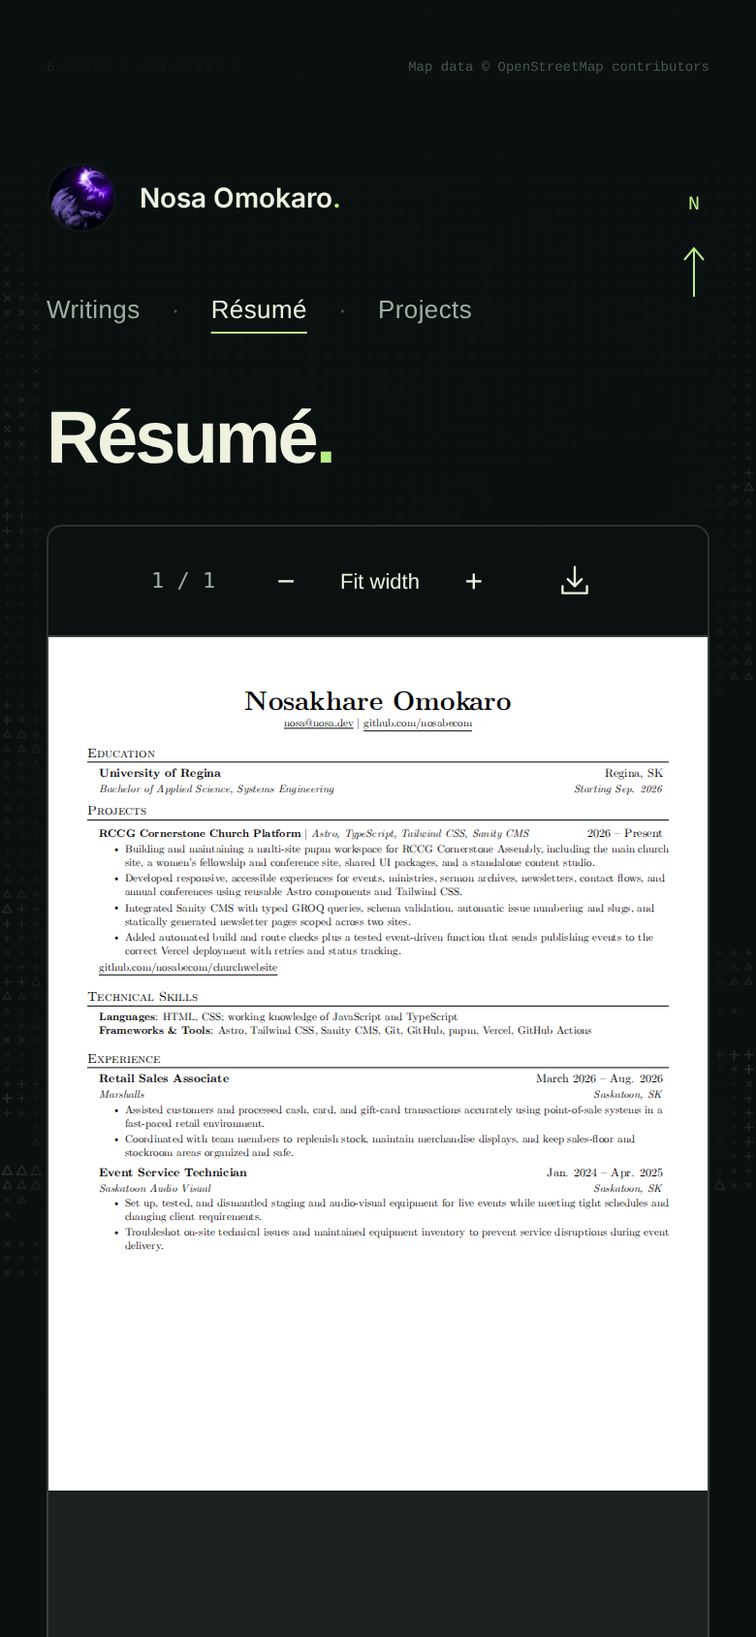
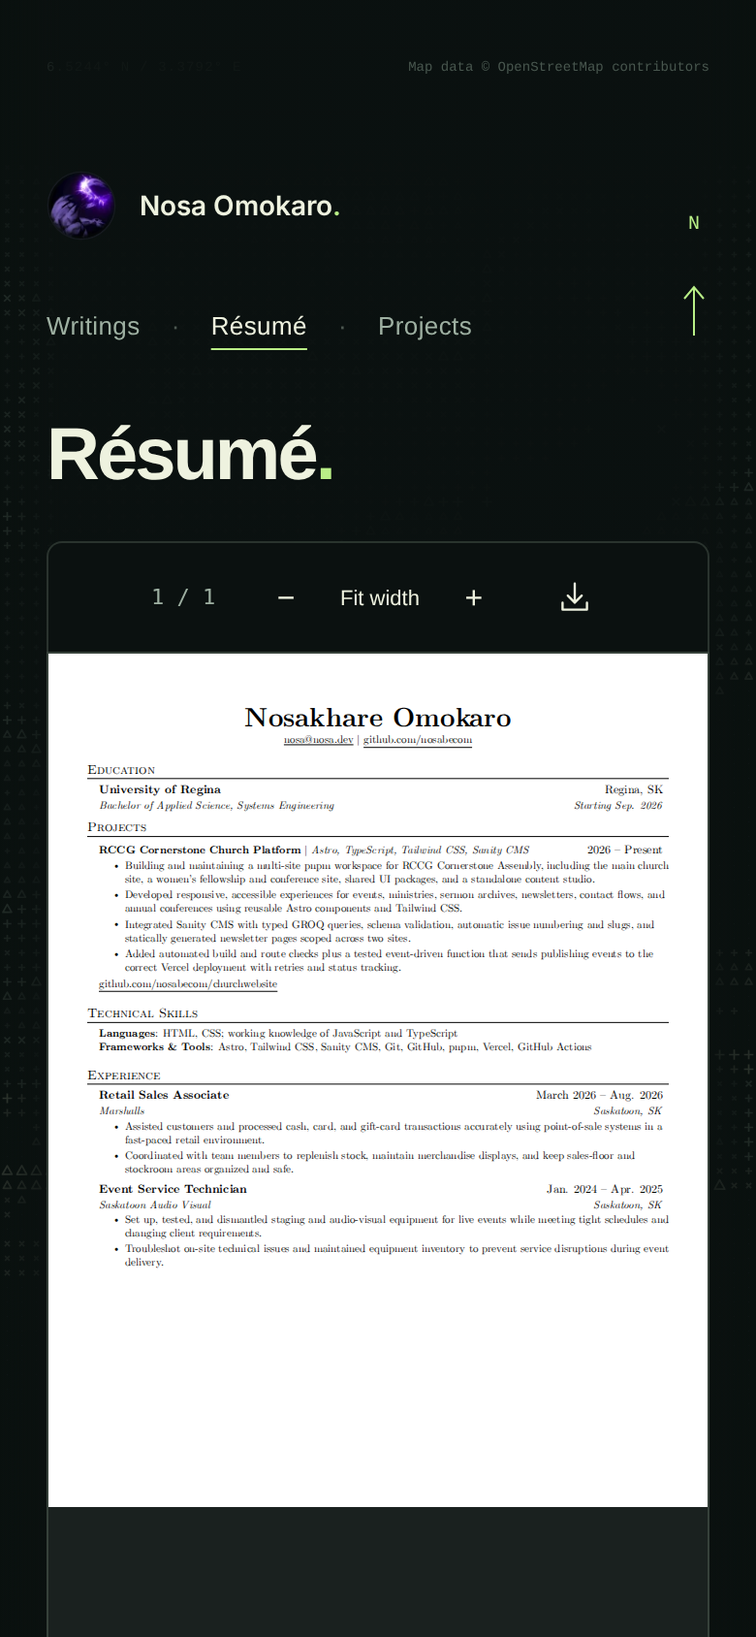
Optimize image delivery, fix viewer leaks, and improve mobile layouts

diff --git a/src/lib/lagos-field.ts b/src/lib/lagos-field.ts
@@ -9,6 +9,8 @@ type Pulse = { x: number; y: number; start: number; strength: number };
 type Spark = { x: number; y: number; vx: number; vy: number; life: number; size: number; shape: number; angle: number };
 type Batch = { strokes: Path2D; dots: Path2D };
 const TAU = Math.PI * 2, TILE = 112, SHADES = 12;
+// Two RGBA canvases stay below roughly 64 MB, including on large HiDPI screens.
+const MAX_CANVAS_PIXELS = 8_000_000;
 const clamp = (v: number, min = 0, max = 1) => Math.max(min, Math.min(max, v));
 const hash = (x: number, y: number) => {
   const n = Math.sin(x * 127.1 + y * 311.7) * 43758.5453;
@@ -37,7 +39,7 @@ export function mountLagosField(root: HTMLElement): () => void {
   const events = new AbortController(), { signal } = events;
   const active = new Set<number>();
   let points: (Particle | undefined)[] = [], samples: Sample[] = [], trace: Sample[] = [], pulses: Pulse[] = [], sparks: Spark[] = [];
-  let previousTiles = new Set<number>();
+  let previousTiles = new Set<number>(), nextTiles = new Set<number>();
   let restingMap: HTMLCanvasElement;
   let width = 0, height = 0, dpr = 1, spacing = 10, columns = 0, rows = 0, tileColumns = 0;
   let animation = 0, lastFrame = 0, time = 0, disposed = false, lastCoordinateUpdate = 0;
@@ -66,12 +68,21 @@ export function mountLagosField(root: HTMLElement): () => void {
     let batch = batches.get(key);
     if (!batch) { batch = { strokes: new Path2D(), dots: new Path2D() }; batches.set(key, batch); }
     if (shape === 3) { batch.dots.rect(x - size * .25, y - size * .25, size * .5, size * .5); return; }
-    const cos = Math.cos(angle), sin = Math.sin(angle), path = batch.strokes;
-    const move = (u: number, v: number) => path.moveTo(x + (u * cos - v * sin) * size, y + (u * sin + v * cos) * size);
-    const line = (u: number, v: number) => path.lineTo(x + (u * cos - v * sin) * size, y + (u * sin + v * cos) * size);
-    if (shape === 0) { move(-1, 0); line(1, 0); move(0, -1); line(0, 1); }
-    if (shape === 1) { move(-.72, -.72); line(.72, .72); move(.72, -.72); line(-.72, .72); }
-    if (shape === 2) { move(0, -1.1); line(1, .7); line(-1, .7); path.closePath(); }
+    const cos = angle ? Math.cos(angle) * size : size, sin = angle ? Math.sin(angle) * size : 0;
+    const path = batch.strokes;
+    // Construct the glyph directly: no closures or trigonometry for resting shapes.
+    if (shape === 0) {
+      path.moveTo(x - cos, y - sin); path.lineTo(x + cos, y + sin);
+      path.moveTo(x + sin, y - cos); path.lineTo(x - sin, y + cos);
+    } else if (shape === 1) {
+      const a = .72 * (cos - sin), b = .72 * (cos + sin);
+      path.moveTo(x - a, y - b); path.lineTo(x + a, y + b);
+      path.moveTo(x + b, y - a); path.lineTo(x - b, y + a);
+    } else if (shape === 2) {
+      path.moveTo(x + sin * 1.1, y - cos * 1.1);
+      path.lineTo(x + cos - sin * .7, y + sin + cos * .7);
+      path.lineTo(x - cos - sin * .7, y - sin + cos * .7); path.closePath();
+    }
   }
 
   function paintBatches(pen: CanvasRenderingContext2D, batches: Map<number, Batch>, animated = false) {
@@ -101,11 +112,12 @@ export function mountLagosField(root: HTMLElement): () => void {
     }
     active.clear(); samples = []; trace = []; pulses = []; sparks = []; previousSample = null;
     if (restingMap) { ctx.globalAlpha = 1; ctx.drawImage(restingMap, 0, 0, width, height); }
-    previousTiles.clear();
+    previousTiles.clear(); nextTiles.clear();
   }
 
   function resize() {
-    const bounds = root.getBoundingClientRect(), nextDpr = Math.min(devicePixelRatio || 1, 2);
+    const bounds = root.getBoundingClientRect();
+    const nextDpr = Math.min(devicePixelRatio || 1, 2, Math.sqrt(MAX_CANVAS_PIXELS / (bounds.width * bounds.height)));
     if (!bounds.width || !bounds.height || (width === bounds.width && height === bounds.height && dpr === nextDpr)) return;
     resetField(); width = bounds.width; height = bounds.height; dpr = nextDpr;
     canvas.width = Math.round(width * dpr); canvas.height = Math.round(height * dpr);
@@ -115,11 +127,12 @@ export function mountLagosField(root: HTMLElement): () => void {
     map = { width: mapWidth, height: mapWidth / LAGOS_ASPECT_RATIO, left: (width - mapWidth) / 2, top: 0 };
     map.top = (height - map.height) * (mobile ? .4 : .43);
     for (const [key, value] of Object.entries(map)) root.style.setProperty(`--map-${key}`, `${value}px`);
-    root.querySelectorAll<HTMLElement>('.place-label').forEach((label) => {
+    const labels = Array.from(root.querySelectorAll<HTMLElement>('.place-label'));
+    const clippedLabels = labels.map((label) => {
       const rect = label.getBoundingClientRect();
-      const clipped = rect.left < bounds.left + 12 || rect.right > bounds.right - 12 || rect.top < bounds.top + 12 || rect.bottom > bounds.bottom - 12;
-      label.style.visibility = mobile && clipped ? 'hidden' : '';
+      return rect.left < bounds.left + 12 || rect.right > bounds.right - 12 || rect.top < bounds.top + 12 || rect.bottom > bounds.bottom - 12;
     });
+    labels.forEach((label, index) => { label.style.visibility = mobile && clippedLabels[index] ? 'hidden' : ''; });
     spacing = Math.max(mobile ? 7.5 : 9.5, Math.sqrt(width * height / 15500));
     columns = Math.ceil(width / spacing); rows = Math.ceil(height / spacing); tileColumns = Math.ceil(width / TILE);
     points = new Array(columns * rows);
@@ -167,17 +180,20 @@ export function mountLagosField(root: HTMLElement): () => void {
   }
 
   function deposit(from: Sample, to: Sample) {
-    const dx = to.x - from.x, dy = to.y - from.y, distance = Math.hypot(dx, dy);
+    const dx = to.x - from.x, dy = to.y - from.y, distanceSquared = dx * dx + dy * dy;
+    const distance = Math.sqrt(distanceSquared);
     const radius = to.down ? 77 : 43, force = to.down ? 1.4 : .75;
+    const radiusSquared = radius * radius, dragX = clamp(dx, -35, 35) * 2.4, dragY = clamp(dy, -35, 35) * 2.4;
     nearby(Math.min(from.x, to.x) - radius, Math.min(from.y, to.y) - radius,
       Math.max(from.x, to.x) + radius, Math.max(from.y, to.y) + radius, (p, index) => {
-        const along = distance ? clamp(((p.x - from.x) * dx + (p.y - from.y) * dy) / (distance * distance)) : 0;
-        const rx = p.x - from.x - dx * along, ry = p.y - from.y - dy * along, r = Math.hypot(rx, ry);
-        if (r >= radius) return;
+        const along = distanceSquared ? clamp(((p.x - from.x) * dx + (p.y - from.y) * dy) / distanceSquared) : 0;
+        const rx = p.x - from.x - dx * along, ry = p.y - from.y - dy * along, distanceFromTrail = rx * rx + ry * ry;
+        if (distanceFromTrail >= radiusSquared) return;
+        const r = Math.sqrt(distanceFromTrail);
         const push = (1 - r / radius) ** 2 * force;
         p.energy = Math.max(p.energy, push);
-        p.vx = clamp(p.vx + (rx / Math.max(r, 1) * 48 + clamp(dx, -35, 35) * 2.4 - ry * .7) * push, -210, 210);
-        p.vy = clamp(p.vy + (ry / Math.max(r, 1) * 48 + clamp(dy, -35, 35) * 2.4 + rx * .7) * push, -210, 210);
+        p.vx = clamp(p.vx + (rx / Math.max(r, 1) * 48 + dragX - ry * .7) * push, -210, 210);
+        p.vy = clamp(p.vy + (ry / Math.max(r, 1) * 48 + dragY + rx * .7) * push, -210, 210);
         p.spin = clamp(p.spin + push * (to.down ? 8 : 4), -14, 14); active.add(index);
       });
     const count = Math.min(16, Math.floor(distance / 9));
@@ -204,7 +220,8 @@ export function mountLagosField(root: HTMLElement): () => void {
       const w = Math.min(TILE, width - x), h = Math.min(TILE, height - y);
       ctx.drawImage(restingMap, x * dpr, y * dpr, w * dpr, h * dpr, x, y, w, h);
     }
-    const tiles = new Set<number>(), batches = new Map<number, Batch>(), erase = new Path2D();
+    const tiles = nextTiles, batches = new Map<number, Batch>(), erase = new Path2D();
+    tiles.clear();
     for (const index of active) {
       const p = points[index]!, padding = p.size * 1.15 + .8;
       erase.rect(p.x - padding, p.y - padding, padding * 2, padding * 2);
@@ -216,17 +233,19 @@ export function mountLagosField(root: HTMLElement): () => void {
     ctx.lineCap = 'round'; ctx.strokeStyle = palette[3];
     for (let i = 1; i < trace.length; i++) {
       const a = trace[i - 1], b = trace[i], life = clamp(1 - (time - b.time) / 1100);
-      if (b.time - a.time > 140 || Math.hypot(b.x - a.x, b.y - a.y) > 130) continue;
+      const dx = b.x - a.x, dy = b.y - a.y, distanceSquared = dx * dx + dy * dy;
+      if (b.time - a.time > 140 || distanceSquared > 130 * 130) continue;
       ctx.globalAlpha = life * (b.down ? .4 : .2); ctx.lineWidth = life * (b.down ? 2 : 1);
       ctx.beginPath(); ctx.moveTo(a.x, a.y); ctx.lineTo(b.x, b.y); ctx.stroke();
-      const steps = Math.ceil(Math.hypot(b.x - a.x, b.y - a.y) / 70);
+      const steps = Math.ceil(Math.sqrt(distanceSquared) / 70);
       for (let j = 0; j <= steps; j++) addTiles(tiles, a.x + (b.x - a.x) * j / Math.max(steps, 1), a.y + (b.y - a.y) * j / Math.max(steps, 1), 5);
     }
     for (const spark of sparks) {
       glyph(batches, spark.shape, spark.x, spark.y, spark.size * spark.life, spark.angle, 3, spark.life * .8);
       addTiles(tiles, spark.x, spark.y, 6);
     }
-    paintBatches(ctx, batches, true); previousTiles = tiles;
+    paintBatches(ctx, batches, true);
+    nextTiles = previousTiles; previousTiles = tiles;
   }
 
   function frame(timestamp: number) {
@@ -235,6 +254,7 @@ export function mountLagosField(root: HTMLElement): () => void {
     const elapsed = lastFrame ? Math.min(timestamp - lastFrame, 50) : 16.7;
     lastFrame = timestamp; time += elapsed;
     const dt = Math.min(elapsed / 1000, .032);
+    const energyDecay = Math.exp(-dt * 2.1), sparkDrag = Math.exp(-dt * 3);
     for (const sample of samples) {
       sample.time = time;
       deposit(previousSample && time - previousSample.time < 180 ? previousSample : sample, sample);
@@ -246,9 +266,11 @@ export function mountLagosField(root: HTMLElement): () => void {
     pulses = pulses.filter(pulse => time - pulse.start < 1400);
     for (const pulse of pulses) {
       const age = (time - pulse.start) / 1000, radius = age * 245, fade = 1 - age / 1.4;
+      const innerRadiusSquared = Math.max(0, radius - 24) ** 2, outerRadiusSquared = (radius + 24) ** 2;
       nearby(pulse.x - radius - 24, pulse.y - radius - 24, pulse.x + radius + 24, pulse.y + radius + 24, (p, index) => {
-        const dx = p.x - pulse.x, dy = p.y - pulse.y, r = Math.hypot(dx, dy), edge = Math.abs(r - radius);
-        if (edge > 24) return;
+        const dx = p.x - pulse.x, dy = p.y - pulse.y, distanceSquared = dx * dx + dy * dy;
+        if (distanceSquared < innerRadiusSquared || distanceSquared > outerRadiusSquared) return;
+        const r = Math.sqrt(distanceSquared), edge = Math.abs(r - radius);
         const impact = (1 - edge / 24) * fade * pulse.strength;
         p.energy = Math.max(p.energy, impact); p.vx += dx / Math.max(r, 1) * impact * dt * 720;
         p.vy += dy / Math.max(r, 1) * impact * dt * 720; p.spin += impact * dt * 22; active.add(index);
@@ -259,7 +281,7 @@ export function mountLagosField(root: HTMLElement): () => void {
       p.vx += (-p.ox * 115 - p.vx * 12) * dt; p.vy += (-p.oy * 115 - p.vy * 12) * dt;
       p.ox = clamp(p.ox + p.vx * dt, -45, 45); p.oy = clamp(p.oy + p.vy * dt, -45, 45);
       p.spin += (-p.angle * 42 - p.spin * 9) * dt; p.angle += p.spin * dt;
-      p.energy *= Math.exp(-dt * 2.1);
+      p.energy *= energyDecay;
       // Restore the cached map when the green highlight ends, avoiding a pale afterglow.
       if (p.energy < .08) {
         p.ox = p.oy = p.vx = p.vy = p.angle = p.spin = p.energy = 0; active.delete(index);
@@ -267,7 +289,7 @@ export function mountLagosField(root: HTMLElement): () => void {
     }
     sparks = sparks.filter(spark => {
       spark.life -= dt * .9; spark.x += spark.vx * dt; spark.y += spark.vy * dt;
-      spark.vx *= Math.exp(-dt * 3); spark.vy *= Math.exp(-dt * 3); spark.angle += dt * .8;
+      spark.vx *= sparkDrag; spark.vy *= sparkDrag; spark.angle += dt * .8;
       return spark.life > 0;
     });
     render();
@@ -295,10 +317,11 @@ export function mountLagosField(root: HTMLElement): () => void {
   const isControl = (target: EventTarget | null) => target instanceof Element && !!target.closest('a, button, input, textarea, select, [data-no-terrain]');
   function samplePointer(event: PointerEvent) {
     const bounds = root.getBoundingClientRect(), x = event.clientX - bounds.left, y = event.clientY - bounds.top;
-    if (performance.now() - lastCoordinateUpdate > 90) {
+    const now = performance.now();
+    if (now - lastCoordinateUpdate > 90) {
       const u = (x - map.left) / map.width, v = (y - map.top) / map.height;
       if (u >= 0 && u <= 1 && v >= 0 && v <= 1) coordinateLabel.textContent = `${(LAGOS_BOUNDS.north - v * (LAGOS_BOUNDS.north - LAGOS_BOUNDS.south)).toFixed(4)}° N / ${(LAGOS_BOUNDS.west + u * (LAGOS_BOUNDS.east - LAGOS_BOUNDS.west)).toFixed(4)}° E`;
-      lastCoordinateUpdate = performance.now();
+      lastCoordinateUpdate = now;
     }
     if (paused || reducedMotion.matches) return;
     const last = samples[samples.length - 1] ?? previousSample;
@@ -306,11 +329,12 @@ export function mountLagosField(root: HTMLElement): () => void {
     samples.push({ x, y, down, time }); if (samples.length > 16) samples.shift(); wake();
   }
   root.addEventListener('pointermove', event => {
+    if (pointerId !== null && event.pointerId !== pointerId) return;
     if (isControl(event.target) || (event.pointerType === 'touch' && !down)) { previousSample = null; return; }
     samplePointer(event);
   }, { signal, passive: true });
   root.addEventListener('pointerdown', event => {
-    if (event.button !== 0 || isControl(event.target)) return;
+    if (pointerId !== null || event.button !== 0 || isControl(event.target)) return;
     // A map gesture should not start native text selection after repeated clicks.
     event.preventDefault();
     if (paused || reducedMotion.matches) return;
@@ -323,8 +347,12 @@ export function mountLagosField(root: HTMLElement): () => void {
     addPulse(event.clientX - bounds.left, event.clientY - bounds.top, dragDistance > 8 ? .55 : 1.1);
     endDrag(); previousSample = null;
   }, { signal });
-  root.addEventListener('pointercancel', () => { endDrag(); previousSample = null; }, { signal });
-  root.addEventListener('lostpointercapture', () => { down = false; pointerId = null; root.dataset.drawing = 'false'; }, { signal });
+  root.addEventListener('pointercancel', event => {
+    if (event.pointerId === pointerId) { endDrag(); previousSample = null; }
+  }, { signal });
+  root.addEventListener('lostpointercapture', event => {
+    if (event.pointerId === pointerId) { down = false; pointerId = null; previousSample = null; root.dataset.drawing = 'false'; }
+  }, { signal });
   root.addEventListener('pointerleave', () => { if (!down) previousSample = null; }, { signal });
   window.addEventListener('blur', () => { endDrag(); previousSample = null; }, { signal });
   themeButton.addEventListener('click', () => { endDrag(); resetField(); dark = !dark; setPalette(); cacheMap(); }, { signal });

diff --git a/src/styles/content.css b/src/styles/content.css
@@ -2,7 +2,7 @@
 .reading-shell { background: linear-gradient(90deg, transparent, color-mix(in srgb, var(--paper) 92%, transparent) 8%, color-mix(in srgb, var(--paper) 92%, transparent) 92%, transparent); position: relative; z-index: 1; max-width: 800px; margin: 0 auto; width: 100%; flex: 1; padding: 96px 40px 80px; pointer-events: none; }
 .reading-shell > * { pointer-events: auto; }
 .section-header { display: flex; align-items: center; justify-content: space-between; gap: 24px; margin-bottom: 44px; }
-.home-link { display: flex; align-items: center; gap: 12px; font-size: 14px; font-weight: 600; text-decoration: none; color: var(--ink); white-space: nowrap; }
+.home-link { display: flex; align-items: center; min-height: 44px; gap: 12px; font-size: 14px; font-weight: 600; text-decoration: none; color: var(--ink); white-space: nowrap; }
 .home-link img { width: 36px; height: 36px; border-radius: 50%; border: 1px solid #b792f64d; -webkit-mask-image: radial-gradient(circle closest-side, #000 calc(100% - 3px), transparent 100%); mask-image: radial-gradient(circle closest-side, #000 calc(100% - 3px), transparent 100%); }
 .accent { color: var(--accent); }
 .section-content { outline: none; overflow-wrap: anywhere; }

diff --git a/src/content.config.ts b/src/content.config.ts
@@ -10,6 +10,7 @@ const common = {
   tags: z.array(z.string()).default([]),
 };
 const webUrl = z.url().refine((value) => /^https?:\/\//.test(value), 'Use an HTTP or HTTPS URL');
+const imageUrl = z.string().regex(/^(?:\/|https?:\/\/)/, 'Use a public path or an HTTP or HTTPS URL');
 
 export const collections = {
   writings: defineCollection({
@@ -18,11 +19,11 @@ export const collections = {
   }),
   projects: defineCollection({
     loader: glob({ pattern: '**/*.md', base: './src/content/projects' }),
-    schema: z.object({
+    schema: ({ image }) => z.object({
       ...common,
       featured: z.boolean().default(false),
       preview: z.object({
-        src: z.string().min(1),
+        src: z.union([imageUrl, image()]),
         alt: z.string().min(1),
       }).optional(),
       url: webUrl.optional(),

diff --git a/README.md b/README.md
@@ -42,6 +42,9 @@ The resting field is cached. A spatial grid limits interaction queries, and only
 changed canvas tiles are restored. Vector paths are grouped by color and opacity;
 frames stop when the bounded particles and pulses settle. No animation framework
 or runtime dependency is needed.
+The two canvas buffers share an eight-million-pixel budget (roughly 64 MB of raw
+RGBA pixels), with a maximum device-pixel ratio of two. Compact landscape screens
+place the avatar beside the profile copy so navigation and footer controls fit.
 The bottom-right theme button switches between dark green and paper palettes.
 OpenStreetMap attribution stays at the top right, opposite the coordinates. Decorative labels do not select while drawing; foreground links and controls remain interactive.
 
@@ -66,6 +69,10 @@ to grow the collection.
 
 The name uses a locally bundled Inter variable font on the homepage and section
 headers so its glyphs and weight do not depend on fonts installed on the device.
+Replace `src/assets/profile.webp` to update the avatar. `ProfileImage.astro` builds
+responsive WebP sizes for the homepage and small header, so phones download an
+appropriately sized image instead of the original. The edge feather remains in
+the homepage and header styles.
 
 ## Writing and projects
 
@@ -93,11 +100,13 @@ tags: [Design, Development]
 
 Write the body below the frontmatter using normal Markdown. Headings, lists,
 links, images, quotes, tables, and code blocks are styled automatically. Put
-images in `public/images/` and reference them as `![Description](/images/name.webp)`.
-For a caption, use an HTML `<figure>` with `<img>` and `<figcaption>` inside
-the Markdown file; the sample case study demonstrates this. Include descriptive
-alt text and image dimensions. The page already supplies the title, so start body
-headings at `##`.
+images in `src/assets/` and reference them with a relative Markdown path, such as
+`![Description](../../assets/my-image.png)`. Astro generates optimized WebP files
+and includes dimensions to prevent layout shifts. For captions, wrap the Markdown
+image and an HTML `<figcaption>` in `<figure>`, leaving blank lines around the
+Markdown image; the samples demonstrate this. Public images and remote HTML
+`<img>` tags also work but are not optimized; provide dimensions for those.
+The page already supplies the title, so start body headings at `##`.
 
 Set `draft: false` (or omit it) to publish. Drafts have **no public route** and do
 not appear in lists, including in development. The two sample fixtures are
@@ -106,7 +115,7 @@ not appear in lists, including in development. The two sample fixtures are
 To inspect a sample, temporarily set its draft flag to false and rebuild, then
 open `/writings/test/` or `/projects/test/`. Restore `draft: true` afterward.
 The samples include images, captions, lists, quotes, code, and a table; local
-screenshots live in `public/images/lagos/`. Copy a sample to a descriptive filename
+screenshots live in `src/assets/lagos/`. Copy a sample to a descriptive filename
 and replace its title and content when publishing your own work.
 There is a designed empty state when a collection has no published entries.
 
@@ -115,7 +124,7 @@ Projects accept these additional optional frontmatter fields:
 ```yaml
 featured: true
 preview:
-  src: "/images/lagos/dark-desktop.png"
+  src: "../../assets/lagos/dark-desktop.png"
   alt: "The Lagos portfolio homepage with its geometric map."
 url: "https://example.com"
 repository: "https://github.com/your-name/your-project"
@@ -123,8 +132,10 @@ repository: "https://github.com/your-name/your-project"
 
 The preview image appears beside the project summary, with a compact thumbnail
 and smaller typography on mobile.
-Use an image under `public/` and its site path, with descriptive alt text. Images
-are displayed at an 8:5 aspect ratio on desktop and cropped to 4:3 on mobile. Without a preview, the summary uses the row;
+Use a relative path to an image under `src/`, with descriptive alt text, to generate
+responsive WebP thumbnails. Site paths under `public/` and HTTP/HTTPS URLs also
+work as unoptimized fallbacks. Images are displayed at an 8:5 aspect ratio on
+desktop and cropped to 4:3 on mobile. Without a preview, the summary uses the row;
 no number or placeholder is shown. `featured` controls sorting without a visible badge.
 
 Omit links you do not have. Writings are sorted newest first; featured projects
@@ -136,7 +147,8 @@ error. Draft dates do not schedule publication: use `draft` explicitly.
 `/resume/` embeds the PDF with PDF.js, including selectable text, PDF links,
 page navigation, zoom, fit-to-width, and a download button in the viewer toolbar.
 The PDF viewer and worker load only when visiting this page. Leaving it releases
-the document, worker, resize observer, and download URL. Loading failures show
+the document, worker, internal observers/listeners, and download URL. The PDF fetch
+runs alongside lazy module loading. Loading failures show
 a retry button; the download remains available without JavaScript.
 
 The source is `build/resume.pdf` on the private `nosabecom/jobs` repo's

diff --git a/src/content/projects/test.md b/src/content/projects/test.md
@@ -5,14 +5,16 @@ date: 2026-10-17
 draft: true
 featured: true
 preview:
-  src: "/images/lagos/dark-desktop.png"
+  src: "../../assets/lagos/dark-desktop.png"
   alt: "The Lagos portfolio homepage with a purple avatar over a geometric map."
 repository: "https://github.com/nosabecom/portfolio"
 ---
 *Sample case study for testing this layout. The screenshots show the actual portfolio; the copy is ready to replace.*
 
 <figure>
-  <img src="/images/lagos/dark-desktop.png" alt="The dark portfolio homepage, with Nosa Omokaro’s circular purple avatar centered over a map of Lagos drawn in tiny geometric shapes." width="1280" height="800" loading="lazy" decoding="async" />
+
+![The dark portfolio homepage, with Nosa Omokaro’s circular purple avatar centered over a map of Lagos drawn in tiny geometric shapes.](../../assets/lagos/dark-desktop.png)
+
   <figcaption>The starting point: a familiar place, drawn a little differently.</figcaption>
 </figure>
 
@@ -41,7 +43,9 @@ The shapes eventually return to their starting positions. That return matters: i
 The dark palette lets the purple avatar and pale lettering lead. The light palette gives the same geometry a softer, paper-like setting. Both use the same coastline and interactions.
 
 <figure>
-  <img src="/images/lagos/light-desktop.png" alt="The same Lagos portfolio in light mode, with a warm paper background and green geometric map." width="1280" height="800" loading="lazy" decoding="async" />
+
+![The same Lagos portfolio in light mode, with a warm paper background and green geometric map.](../../assets/lagos/light-desktop.png)
+
   <figcaption>A change of light, with the same underlying geography.</figcaption>
 </figure>
 

diff --git a/src/content/writings/test.md b/src/content/writings/test.md
@@ -10,7 +10,7 @@ Some pages explain themselves all at once. Every corner has a label, every butto
 
 There is another possibility: leave a little room for someone to notice something on their own.
 
-![A dark, geometric map of Lagos behind the centered profile on Nosa’s portfolio.](/images/lagos/dark-desktop.png)
+![A dark, geometric map of Lagos behind the centered profile on Nosa’s portfolio.](../../assets/lagos/dark-desktop.png)
 
 ## A small invitation
 
@@ -36,7 +36,9 @@ These questions tend to lead toward smaller gestures. A brief trail instead of a
 ## The same idea, in a different light
 
 <figure>
-  <img src="/images/lagos/light-desktop.png" alt="The Lagos portfolio in a light paper palette, retaining the same profile and map composition." width="1280" height="800" loading="lazy" decoding="async" />
+
+![The Lagos portfolio in a light paper palette, retaining the same profile and map composition.](../../assets/lagos/light-desktop.png)
+
   <figcaption>Changing the palette is a useful way to see which parts of a composition are doing the work.</figcaption>
 </figure>
 

diff --git a/docs/pr-8/README.md b/docs/pr-8/README.md
@@ -4,4 +4,9 @@ The before screenshots were captured from the PR base, `b86d0b0cfd2ec397c9ae7ad4
 
 The after screenshots show the current redesign. Refresh them for each visual change to this PR, commit them, and update the PR description image URLs to the new commit so GitHub does not show cached images.
 
+`before-landscape.png` records the later performance audit's starting point at
+740 × 360 CSS pixels (`edfca09`), before the compact landscape layout. Keep this
+additional baseline fixed alongside `after-landscape.png`; the original desktop
+and mobile before images remain unchanged.
+
 Capture both versions at 1280 × 800 for desktop and 390 × 844 for mobile, using the default theme with animation settled. These dimensions are CSS pixels; browser captures may use a higher pixel density.
